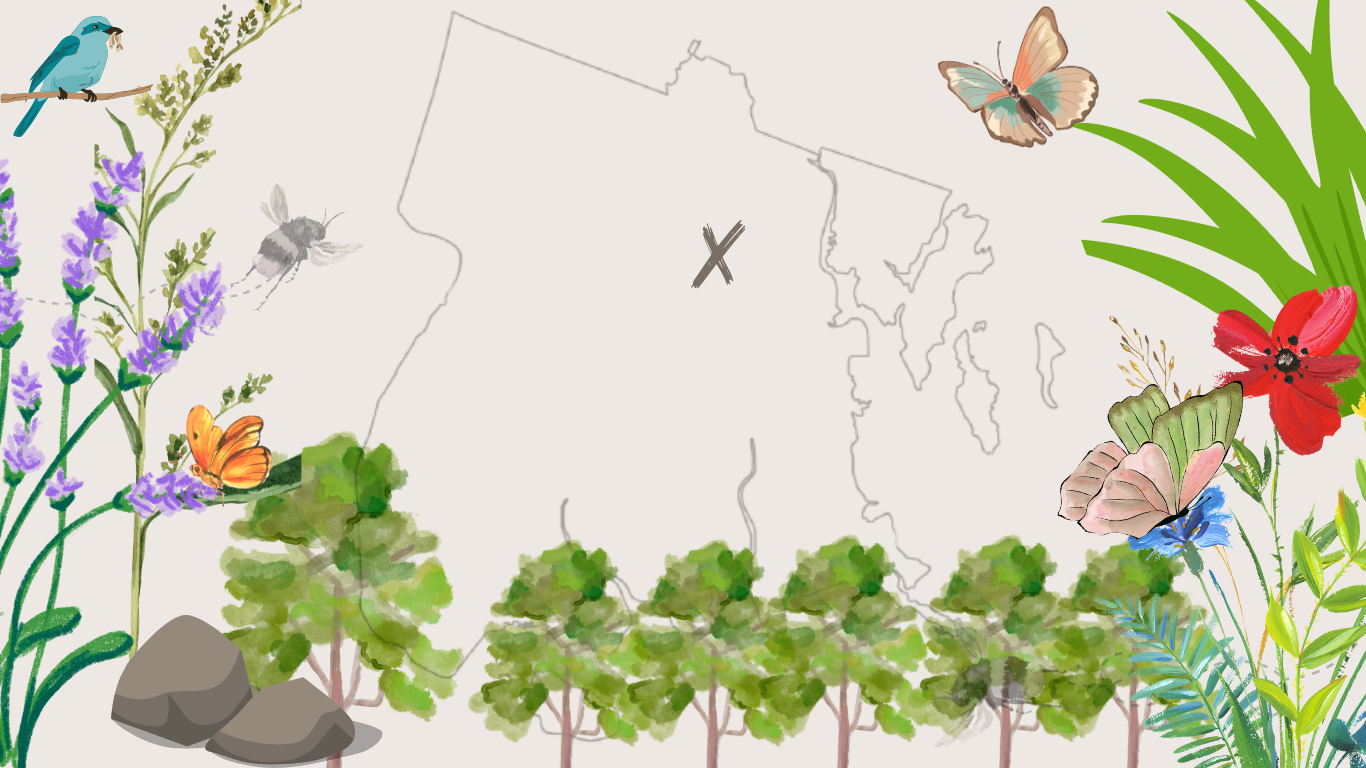
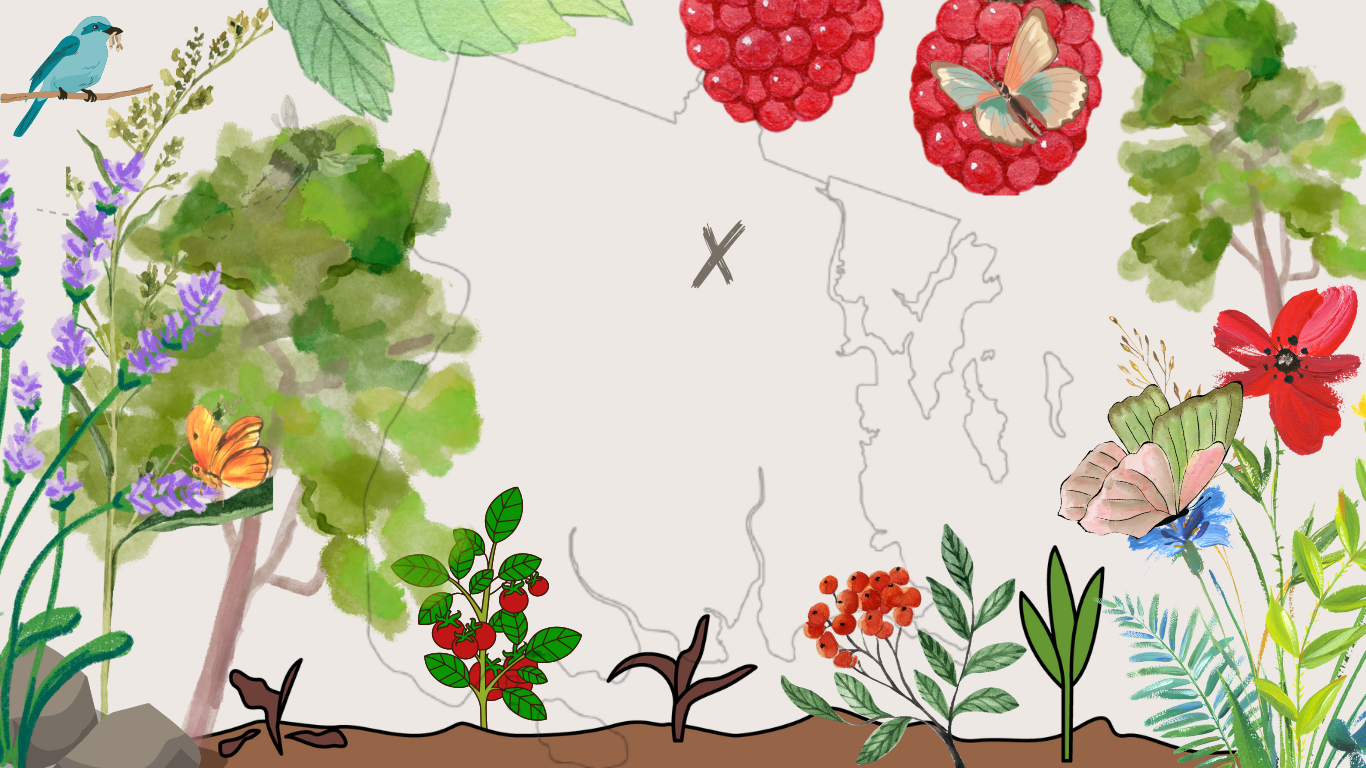
fix pics

diff --git a/src/Programs/Programs/Restoration.tsx b/src/Programs/Programs/Restoration.tsx
@@ -37,9 +37,7 @@ export const Restoration = () => {
       </div>
       <div className="relative w-screen overflow-hidden">
         <ImageCarousel
-          images={RESTORATION_IMAGES.map(
-            (src) => `/environmental-conservation/${src}`,
-          )}
+          images={RESTORATION_IMAGES.map((src) => `/restoration/${src}`)}
         />
       </div>
     </div>
